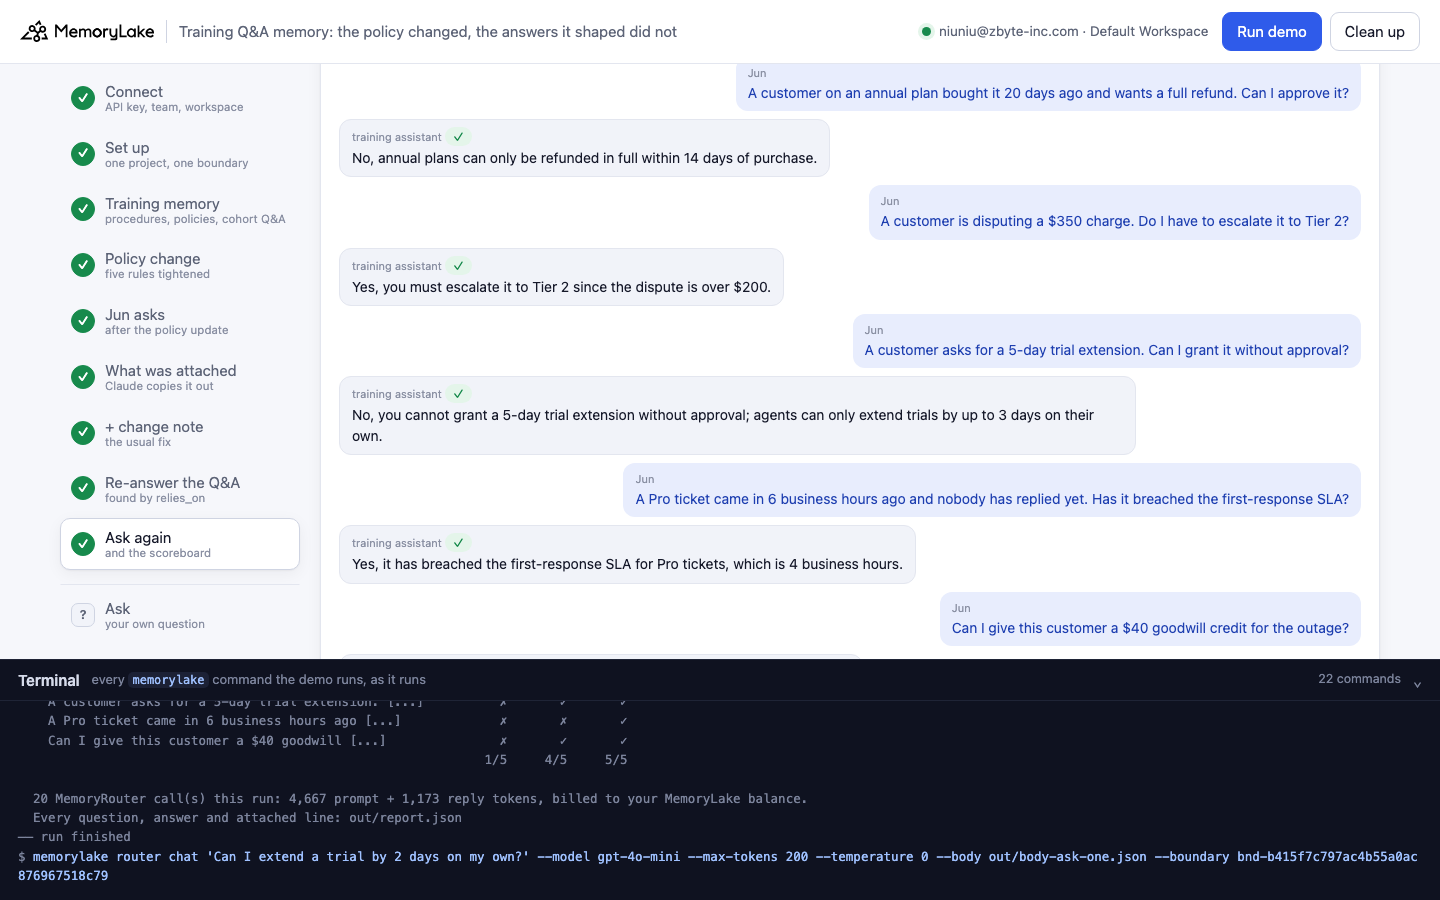
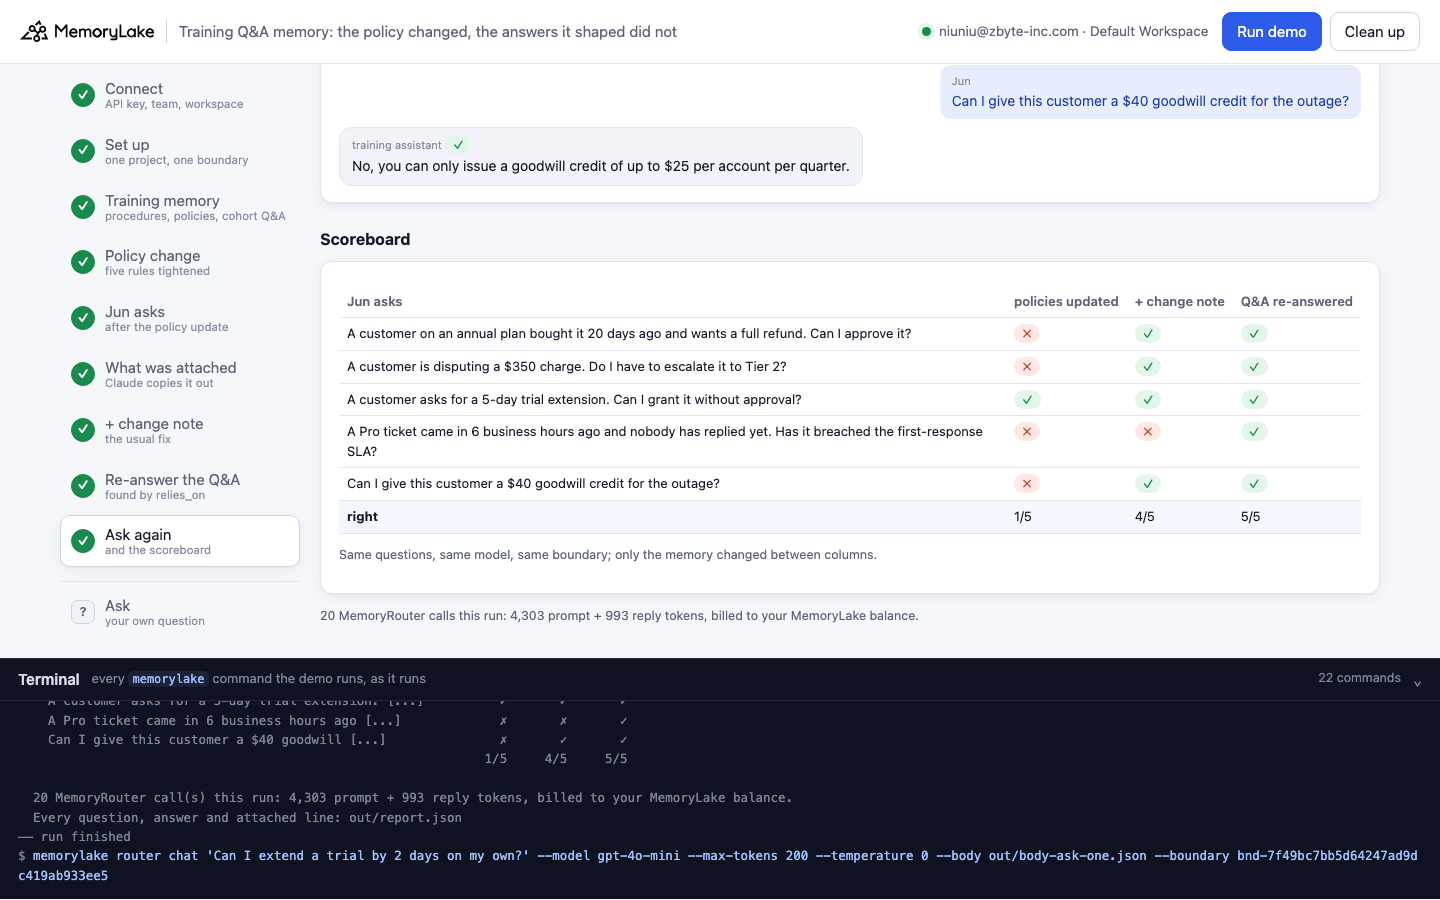
training-qa-memory: videos (release v1), totals over every run, recording screenshots

diff --git a/README.md b/README.md
@@ -79,7 +79,7 @@ that memory can hold once it is more than coding sessions.
 | [long-term-llm-memory](long-term-llm-memory/) | Developers giving an LLM app long-term memory | One user's memory grows from 20 to 100 to 400 facts; the same four questions are asked with no memory, with the whole memory pasted into the prompt (`router chat --body`), and through MemoryRouter (`--boundary`). Pasted: 395 → 1,822 → 6,911 memory tokens per question, and at 400 facts 0 of 18 birthday lists exact over 9 runs (contacts listed under the wrong month every time). MemoryRouter: 78–158 tokens at every size, 108/108 answers exact | ~2 min | [CLI 4:17](https://github.com/memorylake-ai/memorylake-usecases/releases/download/long-term-llm-memory-v1/long-term-llm-memory-cli-demo.mp4) · [Web 4:41](https://github.com/memorylake-ai/memorylake-usecases/releases/download/long-term-llm-memory-v1/long-term-llm-memory-web-demo.mp4) |
 | [renewal-pipeline-memory](renewal-pipeline-memory/) | Sales and customer-success teams (renewal reviews) | "Which accounts renew this quarter?" — through MemoryRouter, about half of them, and nothing says so. 160 renewal records and 60 call notes in one project, one boundary. Look-ups and one manager's 8 renewals are right (`router chat --boundary`); the whole team's 40 come back as 9–33 accounts in 9 of 9 runs, every name right, no hedge. A checker (Claude copying out what it was given) shows a bounded set of the right records, about 20, never 40. Count first: `fact list --query` (no top-k) + `router chat --body` lists 40/40 in 9 of 9. | ~2 min | [CLI 2:51](https://github.com/memorylake-ai/memorylake-usecases/releases/download/renewal-pipeline-memory-v1/renewal-pipeline-memory-cli-demo.mp4) · [Web 3:10](https://github.com/memorylake-ai/memorylake-usecases/releases/download/renewal-pipeline-memory-v1/renewal-pipeline-memory-web-demo.mp4) |
 | [followup-chat-memory](followup-chat-memory/) | Developers building chatbots (multi-turn chat) | "And Maya?" — a follow-up that doesn't say what it is about. A family-assistant chatbot remembers 65 facts about one user; one chat of seven questions, only the first names who it is about. Lookup on the latest message (`search` → prompt) gets someone else's facts and answers "I don't have information" (45/70 over 10 runs); a window of recent turns drags the old subject into the new one and makes answers up (34/49); MemoryRouter with the conversation in the body (`router chat --body … --boundary`) 56/56. A checker shows what it attached on each follow-up. | ~2½ min | [CLI 3:45](https://github.com/memorylake-ai/memorylake-usecases/releases/download/followup-chat-memory-v1/followup-chat-memory-cli-demo.mp4) · [Web 4:19](https://github.com/memorylake-ai/memorylake-usecases/releases/download/followup-chat-memory-v1/followup-chat-memory-web-demo.mp4) |
-| [training-qa-memory](training-qa-memory/) | Support team leads & trainers | The policy changed; the answers it shaped did not. A support training memory (procedures, policies, a past cohort's Q&A answered by a senior agent); five policies are tightened and the policy facts updated. A new agent asks about the same situations through MemoryRouter (`router chat --boundary`): the old worked answer is the closest match, gets attached instead of (or next to) the rule, and the model repeats it — 3/30 right over 6 runs. A change note on each policy: 19/30. Re-answering the Q&A found by `metadata.relies_on`: 30/30. A checker shows what was attached. | ~3 min | recording in progress |
+| [training-qa-memory](training-qa-memory/) | Support team leads & trainers | The policy changed; the answers it shaped did not. A support training memory (procedures, policies, a past cohort's Q&A answered by a senior agent); five policies are tightened and the policy facts updated. A new agent asks about the same situations through MemoryRouter (`router chat --boundary`): the old worked answer is the closest match, gets attached instead of (or next to) the rule, and the model repeats it — 5/40 right over 8 runs. A change note on each policy: 28/40. Re-answering the Q&A found by `metadata.relies_on`: 40/40. A checker shows what was attached. | ~3 min | [CLI 3:52](https://github.com/memorylake-ai/memorylake-usecases/releases/download/training-qa-memory-v1/training-qa-memory-cli-demo.mp4) · [Web 4:54](https://github.com/memorylake-ai/memorylake-usecases/releases/download/training-qa-memory-v1/training-qa-memory-web-demo.mp4) |
 
 The videos are real, unedited recordings; every asset lives on the [releases page](https://github.com/memorylake-ai/memorylake-usecases/releases).
 

diff --git a/training-qa-memory/README.md b/training-qa-memory/README.md
@@ -4,7 +4,8 @@ A runnable version of the MemoryLake use case
 [*Give Support Teams Training Memory That Makes Every New Agent Ramp Faster*](https://www.memorylake.ai/en/usecase/support-agent-training-memory),
 built entirely on the [`memorylake` CLI](https://github.com/memorylake-ai/memorylake-cli) (v20261015 or later).
 
-**Watch it run:** recording in progress.
+**Watch it run:** [CLI, 3:52](https://github.com/memorylake-ai/memorylake-usecases/releases/download/training-qa-memory-v1/training-qa-memory-cli-demo.mp4) · [Web, 4:54](https://github.com/memorylake-ai/memorylake-usecases/releases/download/training-qa-memory-v1/training-qa-memory-web-demo.mp4)
+([release](https://github.com/memorylake-ai/memorylake-usecases/releases/tag/training-qa-memory-v1); GitHub serves them as downloads).
 
 **The problem.** Support training memory is more than the policy handbook. The most useful part is the
 *Q&A*: the questions earlier cohorts asked about real situations, and the answers a senior agent gave. Those answers
@@ -24,7 +25,7 @@ the same situations the spring cohort asked about. Every question is an ordinary
 |---|---|---|
 | 5 | **Policies updated, Q&A untouched** | *"Yes, you can approve it: annual plans are fully refundable for 30 days."* That is word for word the spring answer. **0 or 1 of 5 right** in every run |
 | 6 | **What MemoryRouter attached** (Claude, told to copy out its memory first) | The old Q&A on almost every question, the current policy on few. A worked answer to the same situation matches Jun's question better than the rule it was derived from |
-| 7 | **+ a change note on each policy** (the usual fix): *"… within 14 days of purchase (changed on 2026-10-14; before that it was 30 days)."* | Better, not reliable: **2–4 of 5** |
+| 7 | **+ a change note on each policy** (the usual fix): *"… within 14 days of purchase (changed on 2026-10-14; before that it was 30 days)."* | Better, not reliable: **2–5 of 5** |
 | 8 | **Re-answer the Q&A that relied on a changed policy**: each Q&A records `metadata.relies_on`; `fact list` finds the five whose policy is now at version 2, and `fact update --text` re-answers them | 5 Q&A re-answered, 7 left alone |
 | 9 | **Ask again** | **5 of 5**, every run |
 
@@ -166,7 +167,7 @@ $ memorylake fact update fact-… --project proj-… --text 'Annual plans can be
     4/5 answers right · 1 quote the rule the spring cohort was taught
 ```
 
-The note helps on some questions and not on others; the SLA question stayed wrong with the note in every run.
+The note helps on some questions and not on others; the SLA question stayed wrong with the note in 7 of 8 runs.
 
 ### Step 8: re-answer the Q&A that relied on a changed policy
 
@@ -201,15 +202,16 @@ Same questions, same model, same boundary; only the memory changed between the c
 
 ## Measured
 
-Every fresh run while building this demo (3 in the terminal, 2 parallel copies, 1 browser check):
+Every fresh run while building and recording this demo (3 in the terminal, 2 parallel copies, 1 browser check, the
+2 recordings):
 
 | | runs | right answers |
 |---|---|---|
-| Policies updated, Q&A untouched | 6 | **3 / 30** (0 or 1 per run). In 21 of the 27 wrong answers the reply quotes the old value |
-| + change note on each policy | 6 | **19 / 30** (2 to 4 per run). The SLA question was wrong in all 6 |
-| Q&A re-answered | 6 | **30 / 30** |
-| Checker: the old Q&A among the attached lines | 5 | **22 / 25** |
-| Checker: the current policy among the attached lines | 5 | **5 / 25** |
+| Policies updated, Q&A untouched | 8 | **5 / 40** (0 or 1 per run). In 28 of the 35 wrong answers the reply quotes the old value |
+| + change note on each policy | 8 | **28 / 40** (2 to 5 per run). The SLA question was wrong in 7 of the 8 |
+| Q&A re-answered | 8 | **40 / 40** |
+| Checker: the old Q&A among the attached lines | 7 | **31 / 35** |
+| Checker: the current policy among the attached lines | 7 | **6 / 35** |
 
 - In the feasibility probe (same data, no change-note step), 3 rounds × 5 questions with the old Q&A in memory got
   1 / 15, with a change note 10 / 15, with the Q&A re-answered 13 / 15 (the two misses were a Yes/No wording issue,
